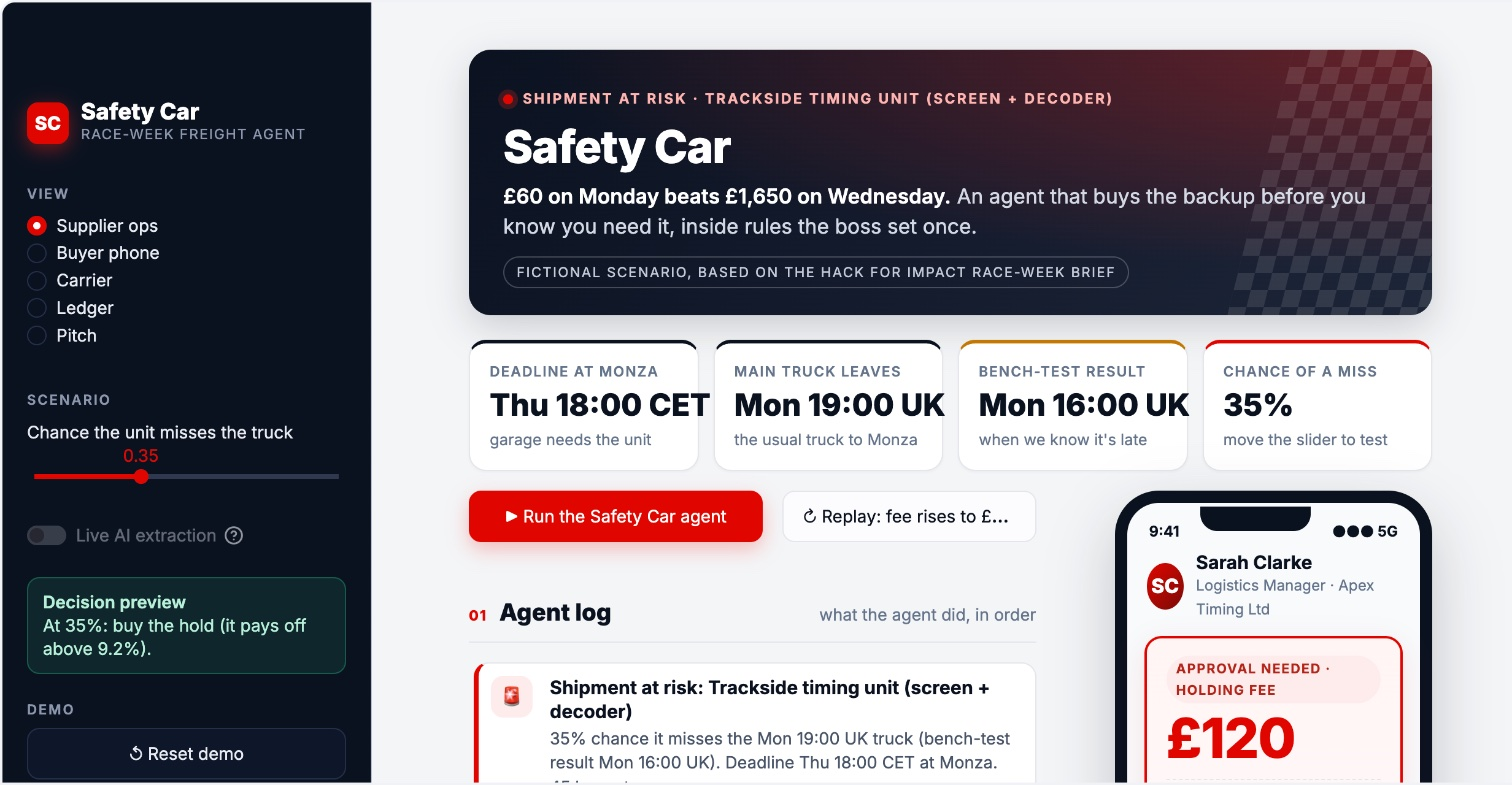
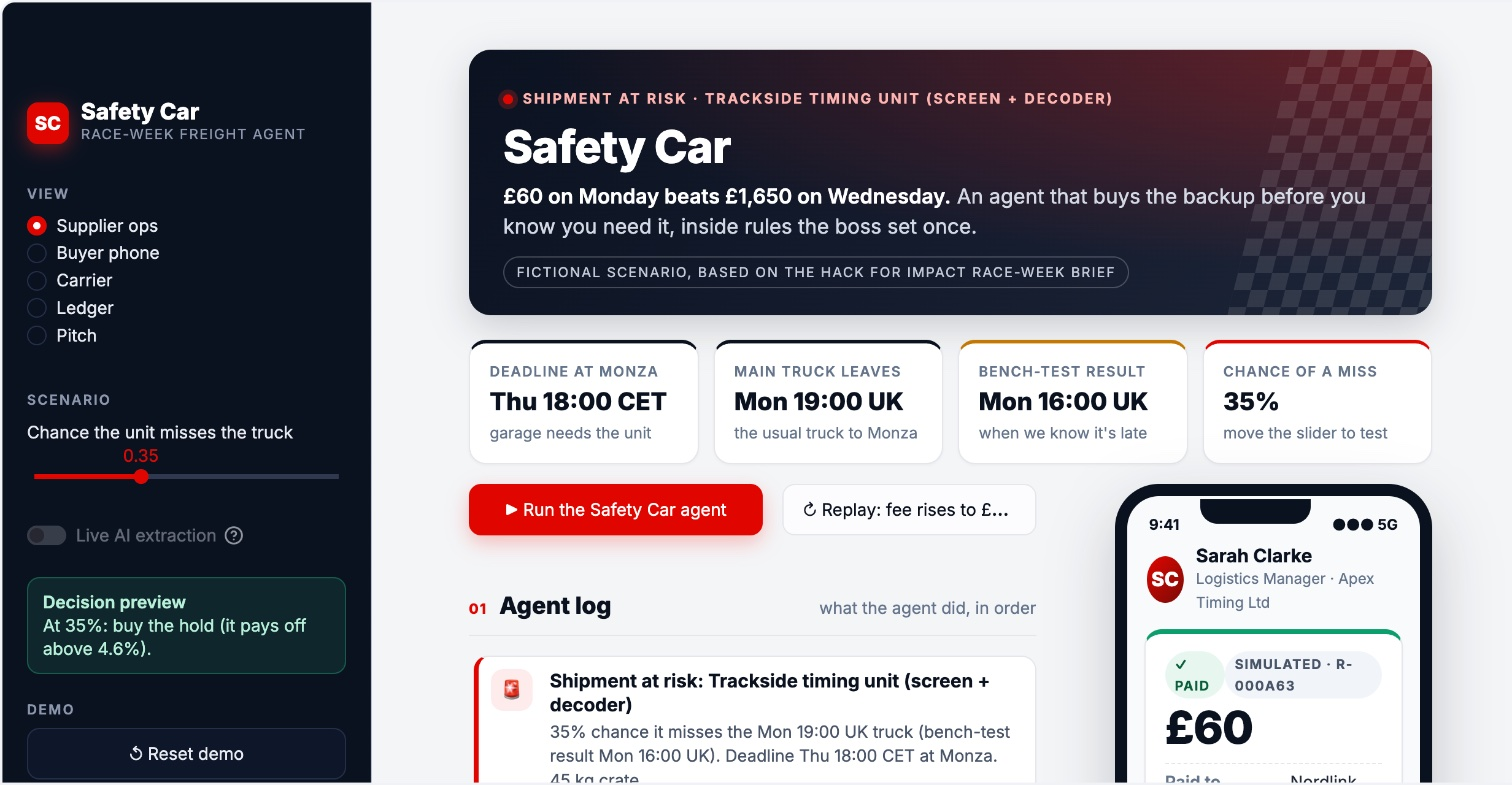
README screenshot after the metric fix; checklist: always restart Streamlit after a pull

diff --git a/pitch/checklist.md b/pitch/checklist.md
@@ -23,6 +23,8 @@ git pull
 pytest -q
 ```
 - [ ] Restart Streamlit (`streamlit run app.py --server.address 0.0.0.0`), press Reset, live AI off, zoom 125%.
+      **Always restart after a pull:** a running app keeps old code in memory and can crash on Run (seen on the
+      public site at 15:40; a reboot fixed it). Then click Run once to check, and Reset.
 - [ ] If anyone ran the Claude Desktop demo on this laptop, press Reset again (it shares data/state.json).
 - [ ] Record the 2:30 backup video, then check it plays.
 ```bash
